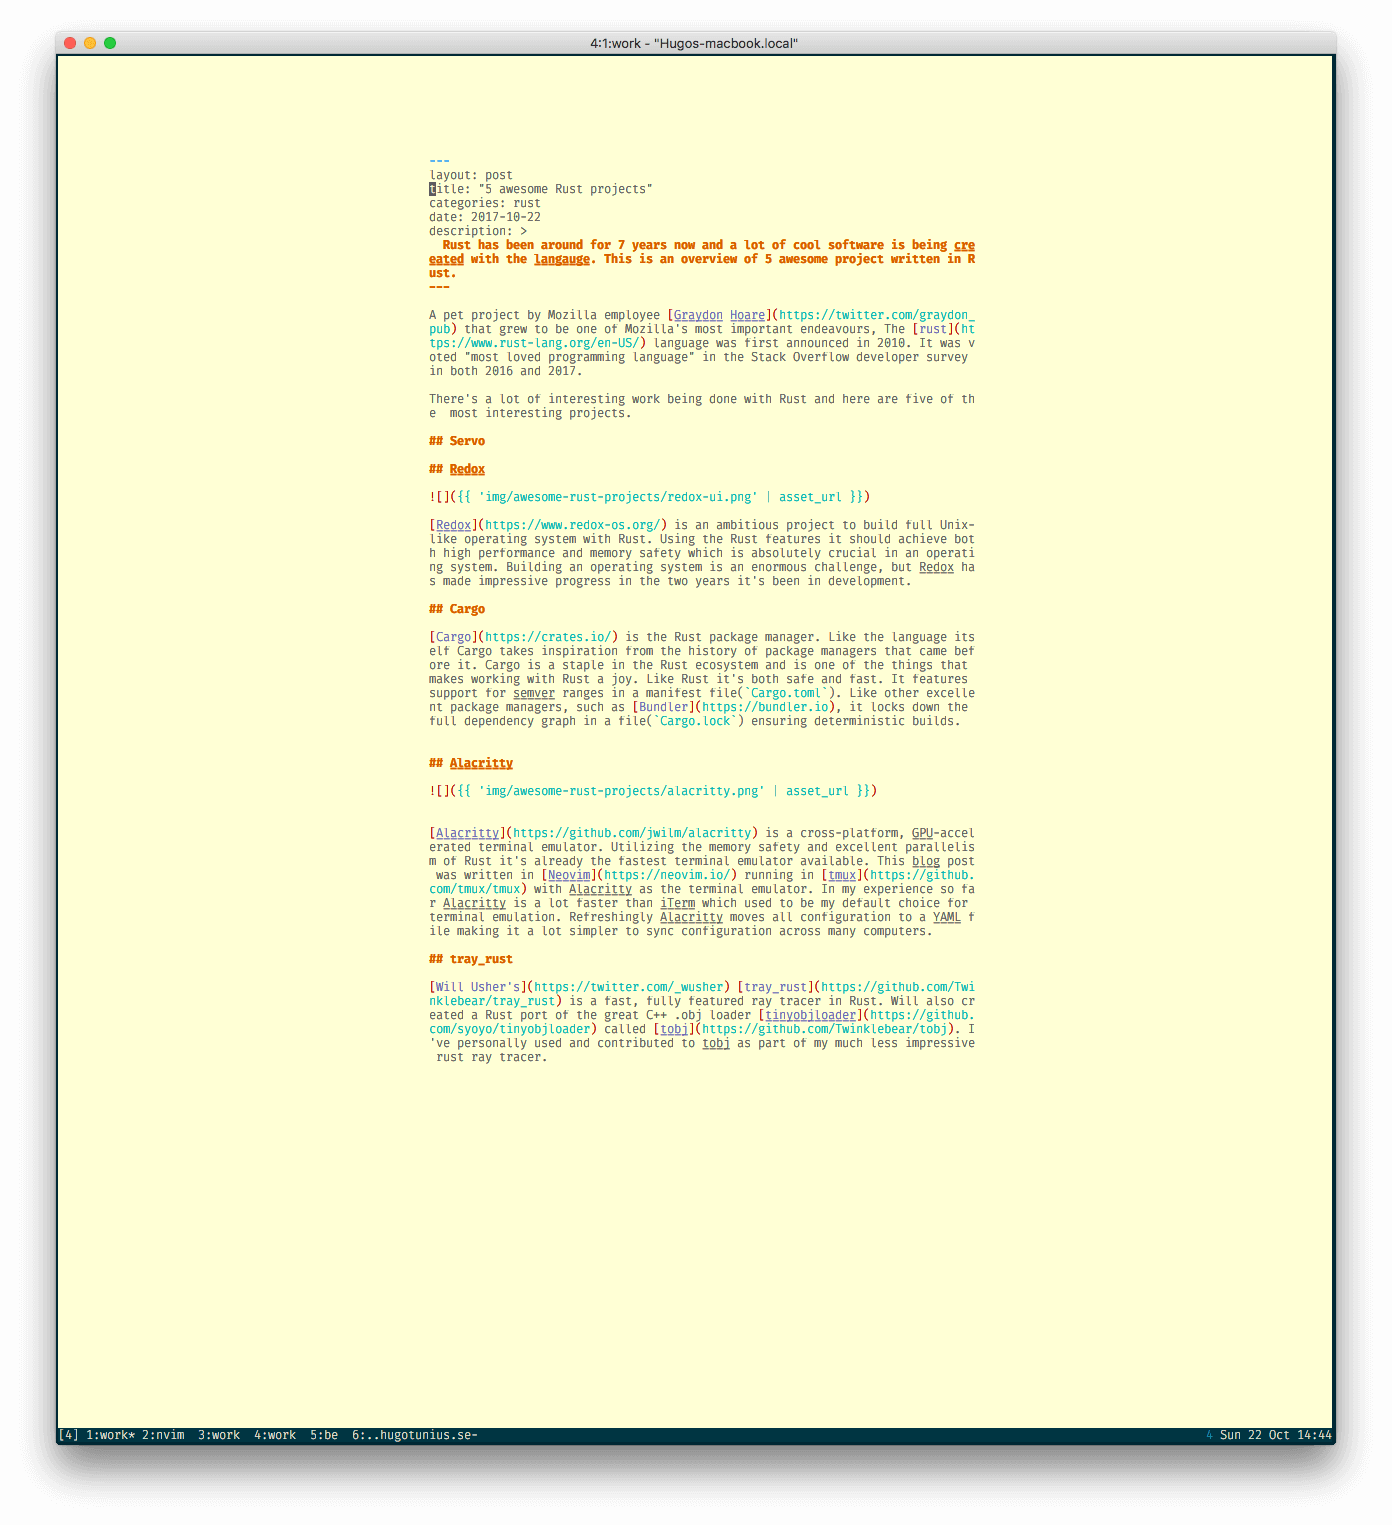
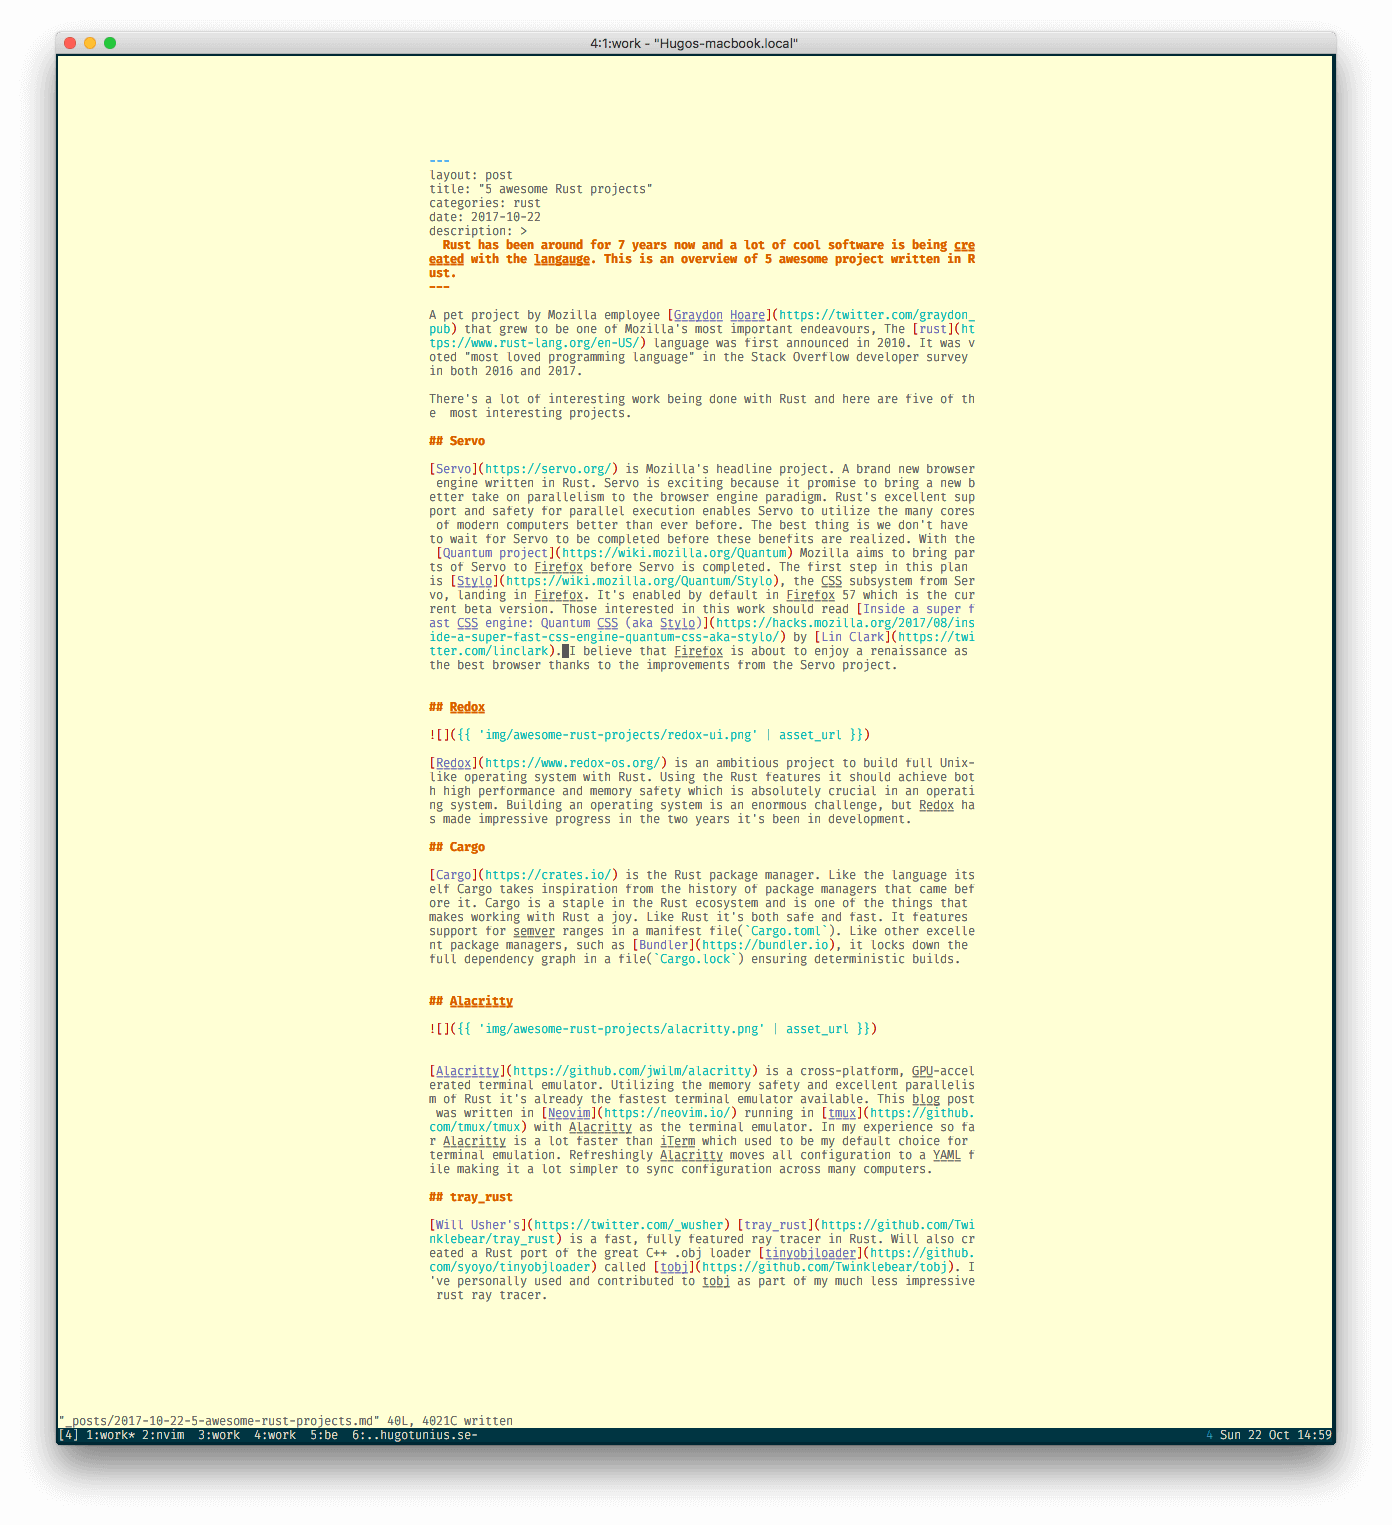
[5-awesome-rust] Reinstate Servo section

Changed region(s): [[0.3089, 0.2774, 0.7105, 0.863], [0.1545, 0.9246, 0.1853, 0.9554]]

diff --git a/_posts/2017-10-22-5-awesome-rust-projects.md b/_posts/2017-10-22-5-awesome-rust-projects.md
@@ -5,7 +5,6 @@ categories: rust
 date: 2017-10-22
 description: >
   Rust has been around for 7 years now and a lot of cool software is being creeated with the langauge. This is an overview of 5 awesome project written in Rust.
-
 ---
 
 A pet project by Mozilla employee [Graydon Hoare](https://twitter.com/graydon_pub) that grew to be one of Mozilla's most important endeavours, The [rust](https://www.rust-lang.org/en-US/) language was first announced in 2010. It was voted "most loved programming language" in the Stack Overflow developer survey in both 2016 and 2017.
@@ -13,6 +12,9 @@ A pet project by Mozilla employee [Graydon Hoare](https://twitter.com/graydon_pu
 There's a lot of interesting work being done with Rust and here are five of the  most interesting projects.
 
 ## Servo
+
+[Servo](https://servo.org/) is Mozilla's headline project. A brand new browser engine written in Rust. Servo is exciting because it promise to bring a new better take on parallelism to the browser engine paradigm. Rust's excellent support and safety for parallel execution enables Servo to utilize the many cores of modern computers better than ever before. The best thing is we don't have to wait for Servo to be completed before these benefits are realized. With the [Quantum project](https://wiki.mozilla.org/Quantum) Mozilla aims to bring parts of Servo to Firefox before Servo is completed. The first step in this plan is [Stylo](https://wiki.mozilla.org/Quantum/Stylo), the CSS subsystem from Servo, landing in Firefox. It's enabled by default in Firefox 57 which is the current beta version. Those interested in this work should read [Inside a super fast CSS engine: Quantum CSS (aka Stylo)](https://hacks.mozilla.org/2017/08/inside-a-super-fast-css-engine-quantum-css-aka-stylo/) by [Lin Clark](https://twitter.com/linclark). I believe that Firefox is about to enjoy a renaissance as the best browser thanks to the improvements from the Servo project.
+
 
 ## Redox
 
